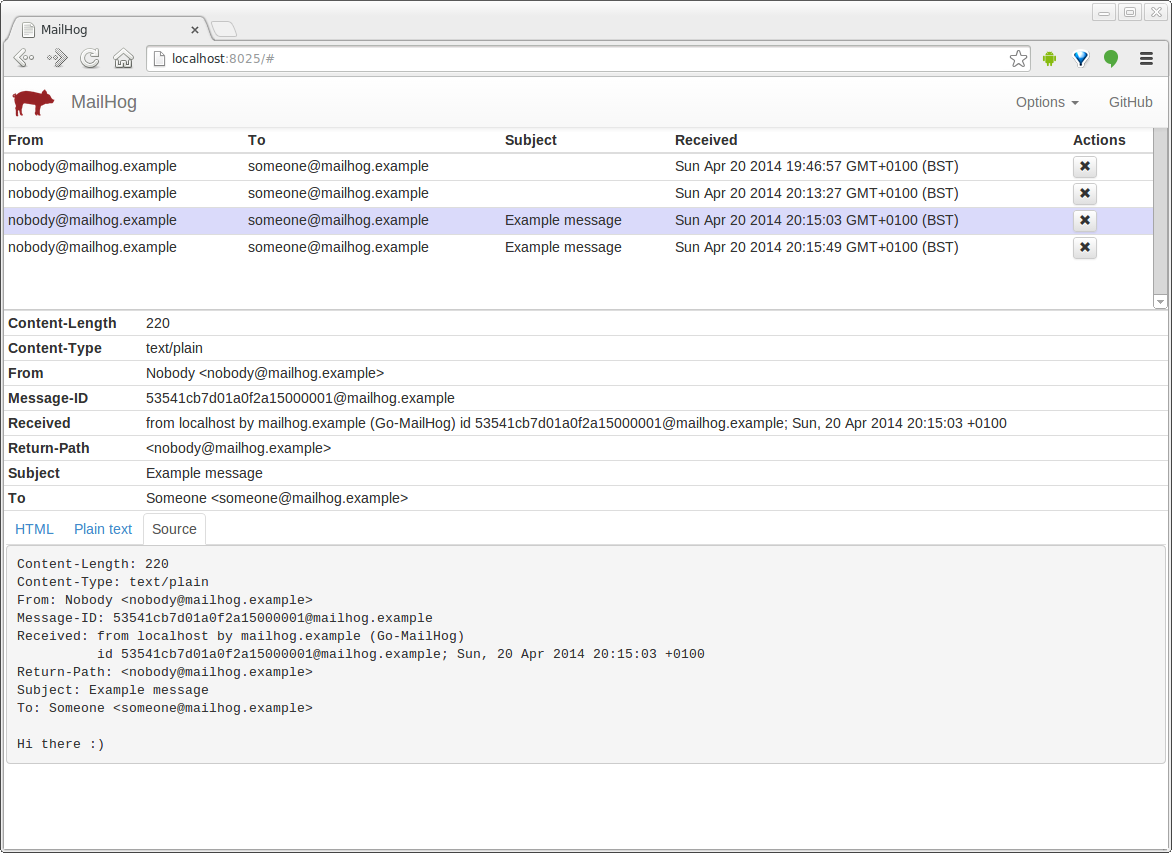
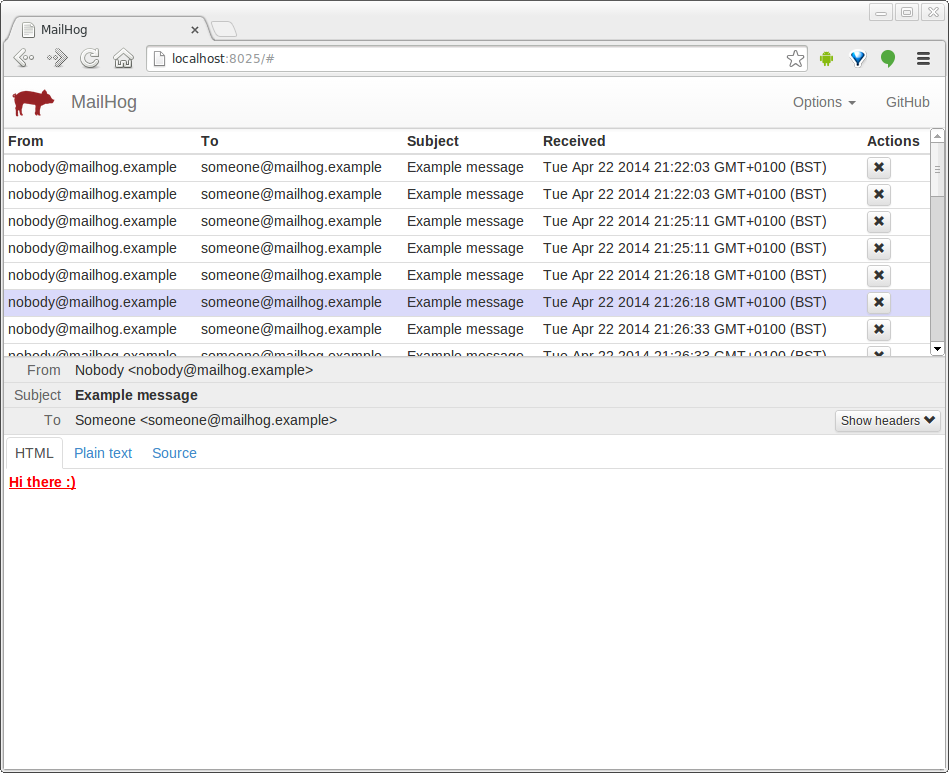
Update readme and screenshot

Changed region(s): [[0.0, 0.0, 1.0, 1.0]]

diff --git a/README.md b/README.md
@@ -10,7 +10,6 @@ Go was chosen for portability - MailHog runs without installation on multiple pl
 ### Requirements
 
 * None!
-* Well, you need MongoDB installed somewhere
 
 ### Getting started
 
@@ -23,8 +22,11 @@ server will start on port 8025.
 ### Features
 
 * ESMTP server implementing RFC5321
-* Web interface to view messages
-* API interface to list, retrieve and delete messages
+* Support for SMTP AUTH (RFC4954) and PIPELINING (RFC2920)
+* Web interface to view messages (plain text, HTML or source)
+* HTTP API to list, retrieve and delete messages
+* Multipart MIME support
+* In-memory message storage
 * MongoDB storage for message persistence
 * Lightweight and portable
 * No installation required
@@ -43,12 +45,14 @@ You can configure Go-MailHog using command line options:
 | -mongodb      | mailhog         | MongoDB database name for message storage
 | -mongouri     | 127.0.0.1:27017 | MongoDB host and port
 | -smtpbindaddr | 0.0.0.0:1025    | Interface and port for SMTP server to bind to
+| -storage      | memory          | Set message storage: memory / mongodb
 
 ### Contributing
 
 Clone this repository to ```$GOPATH/src/github.com/ian-kent/MailHog``` and type ```go install```.
 
 Run tests using ```go test```. You'll need a copy of MailHog running for tests to pass.
+(Tests currently fail using in-memory storage, use MongoDB!)
 
 If you make any changes, run ```go fmt``` before submitting a pull request.
 
